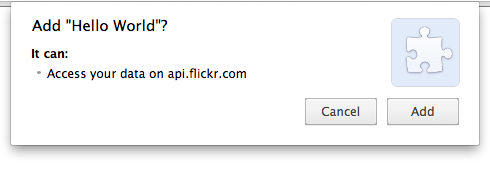
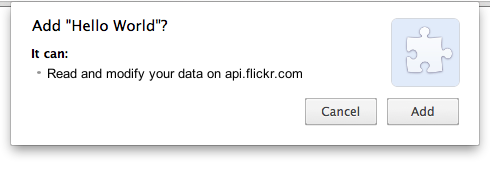
@281363.

Changed region(s): [[0.0918, 0.342, 0.6429, 0.4352]]

diff --git a/chromium/crxdoczh/src/chrome/common/extensions/docs/templates/articles/permission_warnings.html b/chromium/crxdoczh/src/chrome/common/extensions/docs/templates/articles/permission_warnings.html
@@ -113,7 +113,7 @@ brings up the following warning:-->
 
 <img src="{{static}}/images/perms-hw2.png"
   width="490" height="193"
-  alt="Permission warning: 'It can: Read and modify your data on api.flickr.com and flickr.com; Read and modify your browsing history'"
+  alt="Permission warning: 'It can: Read and modify your data on api.flickr.com; Access your browsing activity'"
   />
 
 

diff --git a/chromium/crxdoczh/src/chrome/common/extensions/docs/templates/private/function_details.html b/chromium/crxdoczh/src/chrome/common/extensions/docs/templates/private/function_details.html
@@ -5,6 +5,9 @@
                                api:api/}}
 </div>
 <div class="description">
+  {{?availability}}
+  <span class="availability">{{+availability.partial content:availability/}}</span>
+  {{/availability}}
   {{?description}}
   <p>
     {{{description}}}
